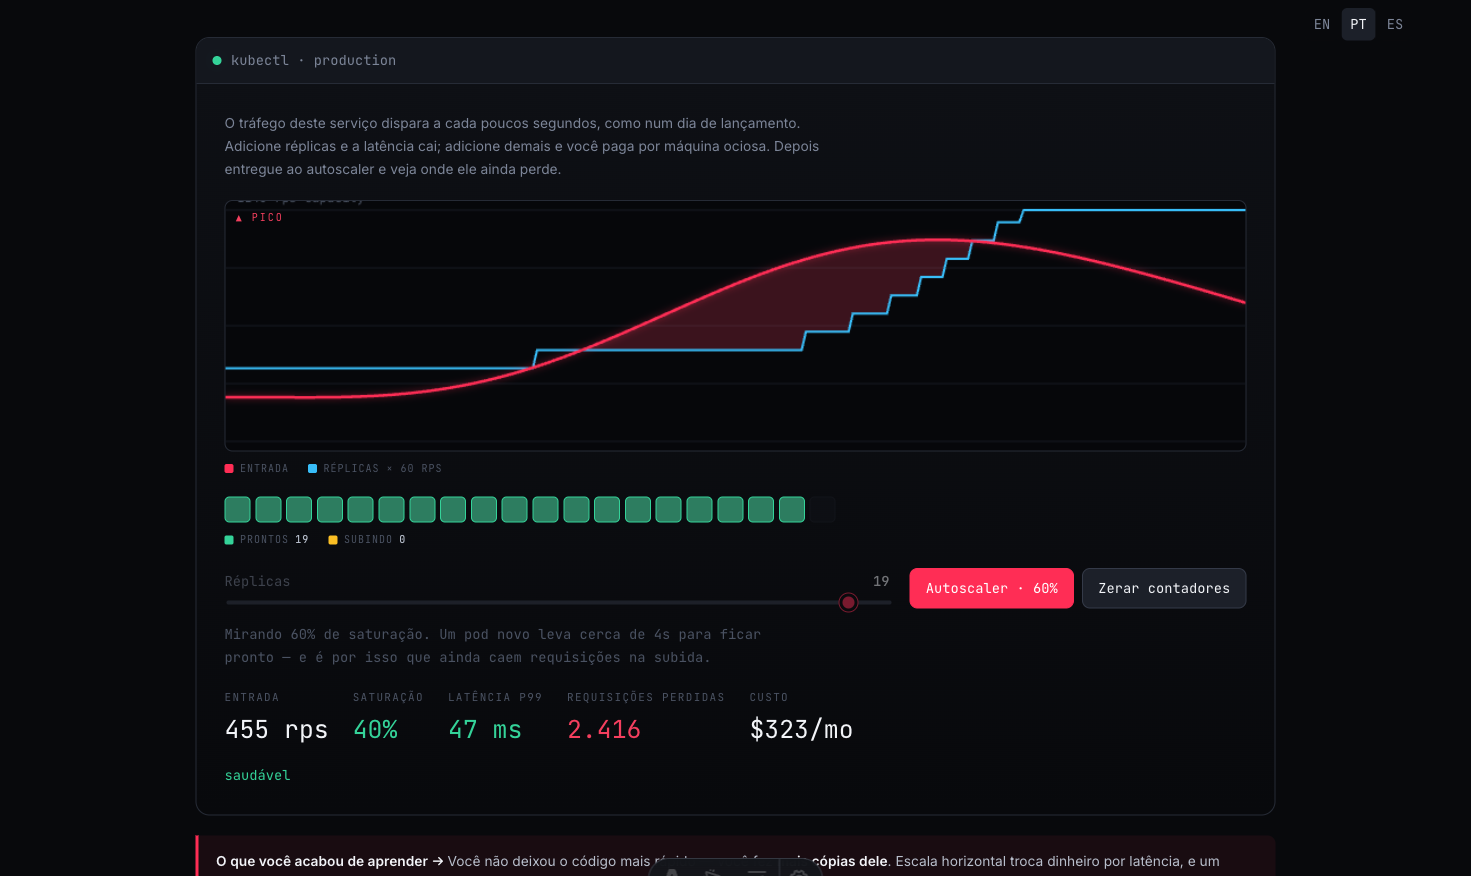
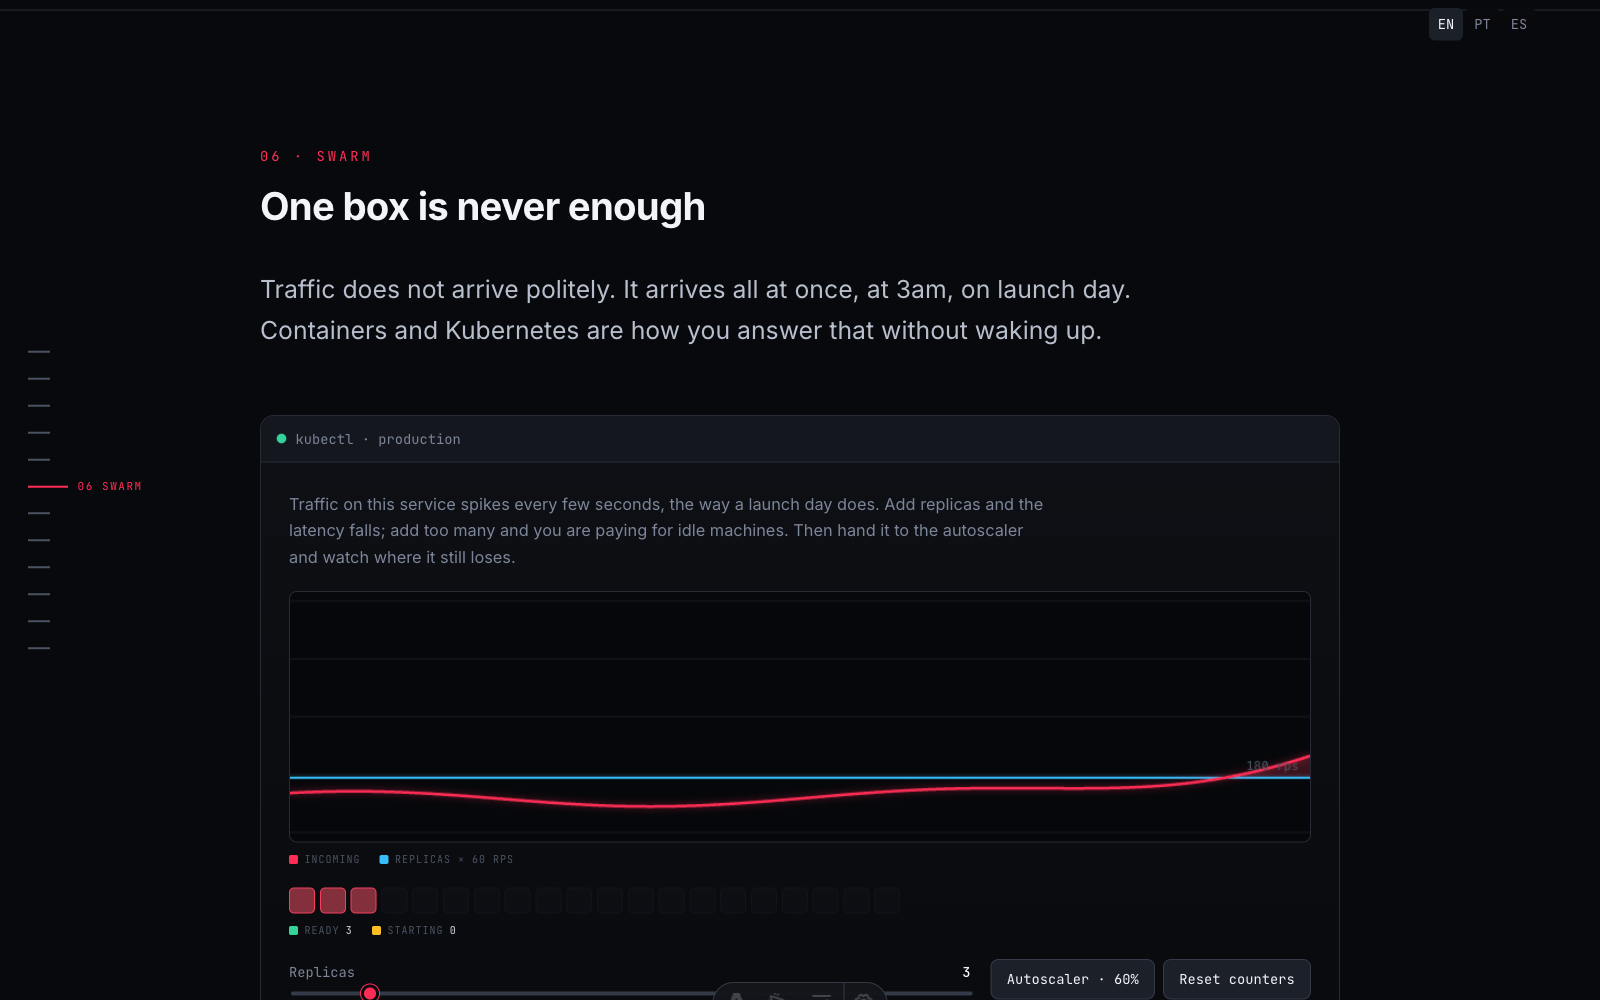
Give panel prose a size of its own, so it stops breaking so often
Maykon pointed at the swarm chapter: a three-line paragraph in a narrow
ragged column with half the panel empty beside it. Measured across every
chapter it was the same everywhere — prose was set at --step--1, the size
meant for labels and badges, so a 74-character measure came out 642px
wide inside a 1022px panel. Sixty-three per cent fill, and every sentence
folded one or two words earlier than it needed to.

--step-body is that measure at a size prose can actually use. Same 74
characters per line, now 762px of the same panel: seventy-five per cent
fill, and the paragraphs read as paragraphs. Twenty-one rules moved, all
of them identified the same way — a rule carrying both a ch measure and
label sizing is prose by definition. The few narrow ones stayed narrow:
a caption at 56ch and an error line at 62ch are narrow on purpose.

The closing line he flagged second was a different bug with the same
symptom. Its 62ch measure sat on the grid container, where ch resolves
against the container's own font size rather than the display size of the
line inside it, so a 92-character sentence was folded into four short
lines against an empty right half. Measures belong on the children, where
each one resolves at the size it is actually set in. It is two balanced
lines now.

Claude-Session: https://claude.ai/code/session_013iJL9sKK6bUYoh6GH7MaXw

diff --git a/packages/ui/src/tokens.css b/packages/ui/src/tokens.css
@@ -31,6 +31,11 @@
   --font-mono: "JetBrains Mono", ui-monospace, SFMono-Regular, "SF Mono", Menlo, monospace;
 
   --step--1: clamp(0.78rem, 0.75rem + 0.15vw, 0.86rem);
+  /* Prose inside a chapter panel. --step--1 is the size for labels and badges;
+     at that size a 74-character line is only about 60% of the panel it sits in,
+     which reads as a narrow ragged column floating in a wide dark box. This is
+     large enough that the same 74 characters fill roughly four fifths of it. */
+  --step-body: clamp(0.88rem, 0.82rem + 0.22vw, 1.02rem);
   --step-0:  clamp(0.95rem, 0.90rem + 0.25vw, 1.05rem);
   --step-1:  clamp(1.20rem, 1.08rem + 0.60vw, 1.55rem);
   --step-2:  clamp(1.60rem, 1.35rem + 1.25vw, 2.40rem);
